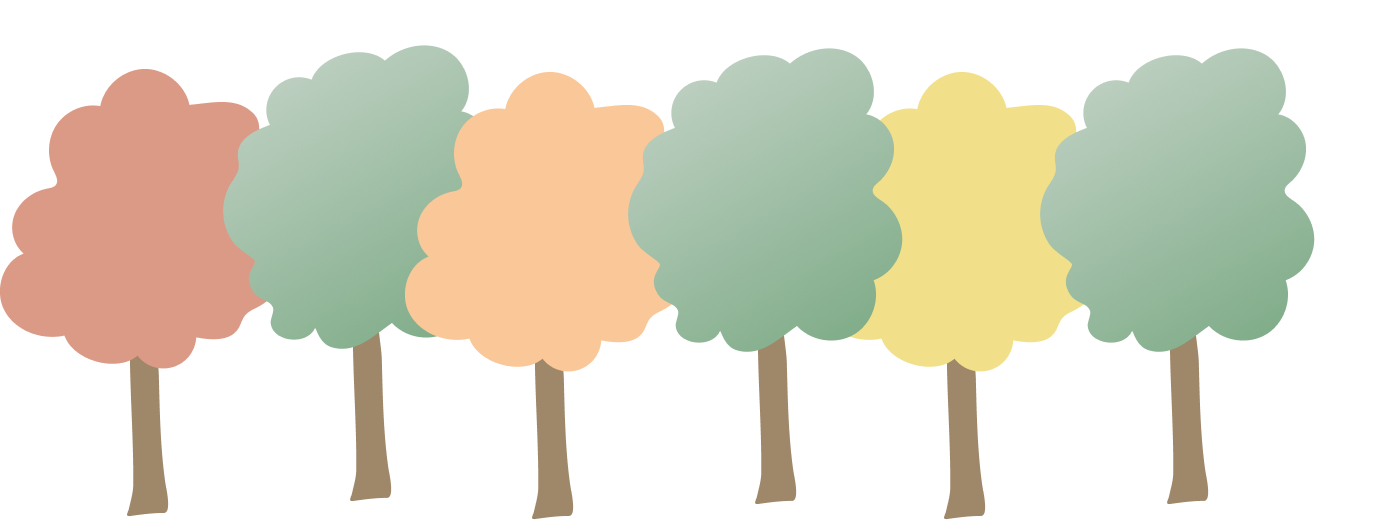
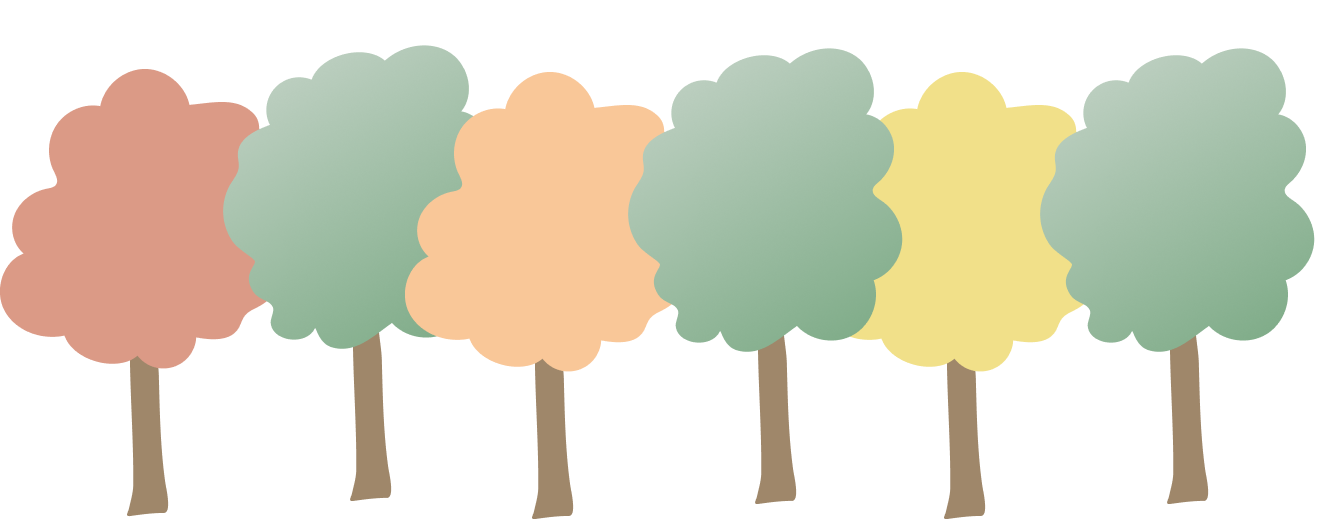
add to get involved section

diff --git a/index.html b/index.html
@@ -127,25 +127,10 @@
                 </div>
                 <div class="col-md-6 text-center">
                     <div class="row h-100 d-flex align-items-center justify-content-center">
-                        <!-- <div class="col-md-2 h-75 d-flex align-items-center justify-content-center">
-                            <a href="">
-                                <img src="assets/img/challenges/prev.png" alt="left arrow" class="challenge-arrows">
-                            </a>
-                        </div>
-                        <div class="col-md-8 h-75 bg-light"></div>
-                        <div class="col-md-2 h-75  d-flex align-items-center justify-content-center">
-                            <img src="assets/img/challenges/next.png" alt="right arrow" class="challenge-arrows">
-                        </div> -->
+
 
                         <div id="carouselExampleIndicators" class="carousel slide" data-bs-ride="carousel">
-                            <!-- <div class="carousel-indicators">
-                                <button type="button" data-bs-target="#carouselExampleIndicators" data-bs-slide-to="0"
-                                    class="active" aria-current="true" aria-label="Slide 1"></button>
-                                <button type="button" data-bs-target="#carouselExampleIndicators" data-bs-slide-to="1"
-                                    aria-label="Slide 2"></button>
-                                <button type="button" data-bs-target="#carouselExampleIndicators" data-bs-slide-to="2"
-                                    aria-label="Slide 3"></button>
-                            </div> -->
+
                             <div class="carousel-inner">
                                 <div class="carousel-item active">
                                     <div class="col-md-12 h-100 w-75 m-auto" style="background-color: #99A4F5"></div>
@@ -181,35 +166,33 @@
     </section>
 
     <!-- Get Involved -->
-    <section class="involved-section overflow-hidden pt-5" id="challenges">
+    <section class="involved-section overflow-hidden pt-5" id="involved">
         <div class="mx-0 px-0 w-100">
             <h2 class="text-center mt-0 text-dark fs-1">Get Involved</h2>
-            <div class="row gx-4 gx-lg-5">
-                <div class="d-flex flex-row align-items-center justify-content-center">
-                    <button type="button"
-                        class="involved-btn btn btn-primary border-0 rounded-pill p-3 shadow m-3">Register to
-                        Attend</button>
-                    <button type="button" class="involved-btn btn btn-primary border-0 rounded-pill p-3 shadow m-3">Host
+            <div class="row gx-1 button-group">
+                <div class="d-flex flex-row flex-wrap align-items-center justify-content-center">
+                    <a href="https://www.eventbrite.com/e/techtogether-new-york-2021-tickets-164054801327?ltclid=a2e9dfde-e728-4ae4-8c9a-a8dce8a38c57
+                    https://www.eventbrite.com/e/techtogether-new-york-2021-tickets-164054801327?ltclid=a2e9dfde-e728-4ae4-8c9a-a8dce8a38c57"
+                        class="involved-btn a btn btn-primary border-0 rounded-pill p-3 shadow m-3">Register to
+                        Attend</a>
+                    <a href="#" class=" btn btn-primary border-0 rounded-pill p-3 shadow m-3 involved-btn b">Host
                         a
-                        Workshop</button>
-                    <button type="button"
-                        class="involved-btn btn btn-primary border-0 rounded-pill p-3 shadow m-3">Sponsor
-                        Us</button>
+                        Workshop</a>
+                    <a href="https://techtogether.typeform.com/to/B7gH63j2"
+                        class="involved-btn c btn btn-primary border-0 rounded-pill p-3 shadow m-3">Sponsor
+                        Us</a>
                 </div>
-                <div class="d-flex flex-row align-items-center justify-content-center">
-                    <button type="button" class="involved-btn btn btn-primary border-0 rounded-pill p-3 shadow m-3">Sign
+                <div class="d-flex flex-row flex-wrap align-items-center justify-content-center">
+                    <a href="#" class="involved-btn d btn btn-primary border-0 rounded-pill p-3 shadow m-3">Sign
                         up to
-                        Mentor</button>
-                    <button type="button" class="involved-btn btn btn-primary border-0 rounded-pill p-3 shadow m-3">Host
-                        a
-                        Workshop</button>
-                    <button type="button" class="involved-btn btn btn-primary border-0 rounded-pill p-3 shadow m-3">Sign
+                        Mentor</a>
+                    <a href="#" class="involved-btn e btn btn-primary border-0 rounded-pill p-3 shadow m-3">Sign
                         up to
-                        judge</button>
+                        judge</a>
                 </div>
             </div>
-            <div class="row gx-4 gx-lg-5">
-                <img src="assets/img/getinvolved/trees.png" alt="Central Park Trees">
+            <div class="d-flex flex-row align-items-center justify-content-center w-100 p-0">
+                <img src="assets/img/getinvolved/trees.png" alt="Central Park Trees" class="trees">
             </div>
         </div>
     </section>

diff --git a/css/styles.css b/css/styles.css
@@ -11287,7 +11287,7 @@ body {
 
 .challenges-section {
   padding: 0 0;
-  background-color: #181E43
+  background-color: #181E43;
 }
 
 .challenge-arrows {
@@ -11300,15 +11300,59 @@ body {
 
 .involved-section {
   padding: 0 0;
-  background-color: #E4F7FC
+  background-color: #E4F7FC;
+}
+
+.button-group {
+  position: relative;
+  bottom: -50px;
 }
 
 .involved-btn {
   width: 200px;
+  color: white
 }
 
-.involved-btn:nth-child(2) {
+.involved-btn.b {
   background-color: #99A4F5;
+}
+
+.involved-btn.b:hover {
+  background-color: #7382f3;
+}
+
+.involved-btn.c {
+  background-color: #334195;
+}
+
+.involved-btn.c:hover {
+  background-color: #1b2870;
+}
+
+.involved-btn.d {
+  background-color: #ABE2F1;
+}
+
+.involved-btn.d:hover {
+  background-color: #5ec0db;
+}
+
+.involved-btn.e {
+  background-color: #64B6CC;
+}
+
+.involved-btn.e:hover {
+  background-color: #52a4bb;
+}
+
+.trees-section {
+  position: relative;
+  bottom: 100px;
+}
+
+.trees {
+  position: relative;
+  bottom: -100px;
 }
 
 .page-section {
